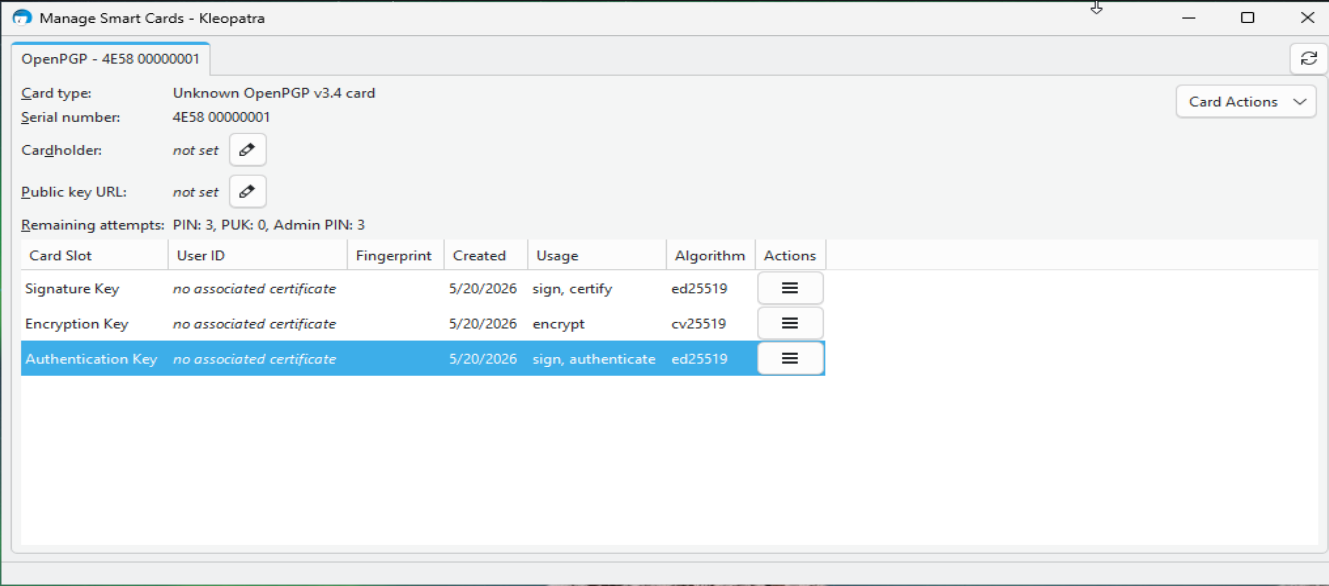
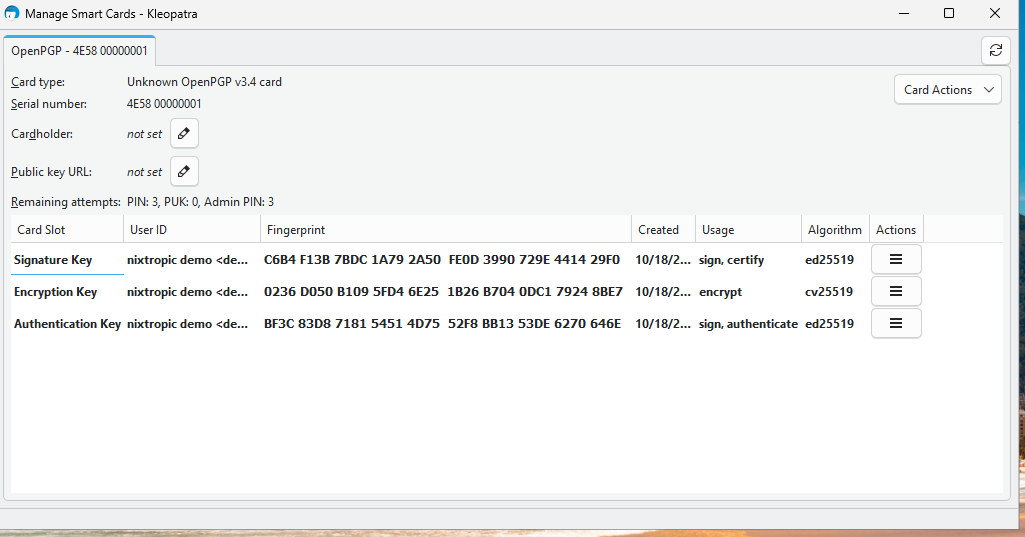
docs: dedicated Windows page
Brings back the Windows section v0.2's README had, as its own page: what
works on Windows 11 with v0.3.0 (enumeration, the OpenPGP card in
Gpg4win/Kleopatra), the FIDO2-with-PIN known issue and its cause (no
CTAPHID KEEPALIVE), flashing and SSH notes, and VirtualBox passthrough
for testing. The Kleopatra screenshot is replaced with a v0.3 one (demo
keys). Linked from the nav, home page, README, status, Linux setup and
the WebAuthn notes.

diff --git a/docs/windows.md b/docs/windows.md
@@ -1,0 +1,83 @@
+# Windows
+
+The dongle needs no driver on Windows: both interfaces bind to Windows' in-box class
+drivers (HID for FIDO2, the Microsoft USB CCID driver for the smart card). Tested on
+Windows 11 in a VirtualBox VM with USB passthrough, 18 October 2026, release build.
+
+| Feature | v0.3.0 on Windows 11 |
+|---|---|
+| USB enumeration, no driver install | works |
+| OpenPGP card with Gpg4win / Kleopatra: card view, sign, encrypt, decrypt | works |
+| FIDO2 touch (device selection) | works |
+| FIDO2 registration and login with a PIN set | **fails** — see [known issue](#known-issue-fido2-with-a-pin) |
+| FIDO2 PIN change (Windows Settings) | **reports an error**, although the change completes |
+| SSH through gpg-agent | not tested |
+| Flashing from Windows | not tested — flash from Linux |
+
+## OpenPGP card
+
+1. Install [Gpg4win](https://gpg4win.org).
+2. Create `%APPDATA%\gnupg\scdaemon.conf` (Win+R → `%APPDATA%\gnupg`) with:
+
+    ```text
+    disable-ccid
+    pcsc-shared
+    ```
+
+    The reasons are the same as on Linux: see [Linux setup](linux-setup.md#gnupg).
+
+3. In PowerShell:
+
+    ```powershell
+    gpgconf --kill scdaemon
+    gpg --card-status
+    ```
+
+    If it reports no card, reboot Windows once.
+
+4. Kleopatra → **Tools → Manage Smart Cards** shows the card and its three keys. Import
+   your public key (File → Import) and the keys appear with their user IDs:
+
+    ![Kleopatra showing the nixtropic card with its signature, encryption and authentication keys](assets/kleopatra-windows.png)
+
+5. Sign, encrypt and decrypt from Kleopatra's Notepad or the file actions. Each operation
+   asks for the user PIN and, with the default touch policy, a press of SW1.
+
+Card setup (PINs, touch policy, key generation) works with `gpg --card-edit` exactly as
+described in [card setup](card-setup.md).
+
+## Known issue: FIDO2 with a PIN
+
+In v0.3.0, FIDO2 operations that use the PIN fail on Windows: registration loops back to
+the PIN prompt, and a PIN change in *Settings → Accounts → Sign-in options → Security
+key* reports "Something went wrong".
+
+The cause is a missing CTAPHID **KEEPALIVE**. While the dongle works on a PIN operation
+it sends nothing, and Windows abandons a silent request after a few seconds. USB
+captures show it giving up on the PIN token after 2.6 s and on a PIN change after
+6.6 s; the dongle's successful answer arrived 1–2 ms later in both cases. v0.3.0's
+crash-safe PIN storage makes these operations slower than in v0.2, which worked. Linux
+clients wait for the answer and are not affected.
+
+The operations do complete on the dongle, so a PIN change made from Windows may have
+taken effect despite the error. The fix — KEEPALIVE packets while the dongle works and
+while it waits for a touch, as CTAP recommends — is planned for v0.3.1
+([backlog 6.7](backlog.md)).
+
+## Flashing from Windows
+
+Not tested. The STM32 DFU device (`0483:df11`) probably needs [Zadig](https://zadig.akeo.ie/)
+to bind WinUSB for `dfu-util.exe`, or ST's STM32CubeProgrammer with its signed driver.
+Flash from Linux for now.
+
+## SSH
+
+Not tested. Gpg4win's agent can serve SSH with `enable-win32-openssh-support` in
+`gpg-agent.conf` and the built-in `ssh-agent` service disabled.
+
+## Testing in a VirtualBox VM
+
+Pass the dongle through: VM settings → **USB** → enable the USB controller → add a filter
+for **nixtropic nixtropic** (`cafe:4001`), or attach it at run time with
+**Devices → USB**. While the VM holds the dongle, the Linux host cannot use it; stop the
+host's `pcscd` first if it holds the reader.

diff --git a/docs/linux-setup.md b/docs/linux-setup.md
@@ -157,16 +157,5 @@ More WebAuthn detail: [WebAuthn notes](webauthn.md).
 
 ## Windows and macOS
 
-Windows 11 (tested 18 October 2026 in a VirtualBox VM with USB passthrough):
-
-- **OpenPGP card: works.** Install [Gpg4win](https://gpg4win.org), put the same two lines
-  in `%APPDATA%\gnupg\scdaemon.conf`, then `gpgconf --kill scdaemon` (or reboot).
-  Kleopatra (*Tools → Manage Smart Cards*) shows the card; signing, encryption and
-  decryption work.
-- **FIDO2 with a PIN: does not work in v0.3.0.** The dongle sends no CTAPHID KEEPALIVE
-  while it works, and Windows abandons a silent request after a few seconds (about
-  2.6 s for the PIN token, 6.6 s for a PIN change); PIN operations take longer than that
-  since v0.3.0’s crash-safe PIN storage. The operations complete on the dongle, but
-  registration loops and a PIN change reports an error. The fix is planned for v0.3.1
-  ([backlog 6.7](backlog.md)). v0.2 worked.
-- Flashing from Windows and macOS are untested.
+Windows has its own page: [Windows](windows.md) (OpenPGP card works; FIDO2 with a PIN
+needs v0.3.1). macOS is untested.

diff --git a/docs/status.md b/docs/status.md
@@ -30,7 +30,7 @@
 | Host OS | NixOS (nixos-26.05) | Debian/Ubuntu steps documented, not CI-tested |
 | Host stack | GnuPG 2.4, pcsc-lite + patched libccid, OpenSSH via gpg-agent, libfido2 | `scdaemon` with `disable-ccid` + `pcsc-shared` |
 | Browsers | Firefox, Brave (Linux) | Chrome expected to work; macOS untested |
-| Windows 11 | OpenPGP card with Gpg4win/Kleopatra: sign, encrypt, decrypt | **FIDO2 with a PIN fails** (no KEEPALIVE, Windows times out); fixed in v0.3.1 ([Linux setup](linux-setup.md#windows-and-macos)) |
+| Windows 11 | OpenPGP card with Gpg4win/Kleopatra: sign, encrypt, decrypt | **FIDO2 with a PIN fails** (no KEEPALIVE, Windows times out); fixed in v0.3.1 ([Windows](windows.md)) |
 | Sites | webauthn.io, webauthn.me (v0.3); Proton account 2FA (v0.2) | attestation `none` |
 | FIDO2 | CTAP 2.0 + CTAP 2.1 credential management, authenticatorConfig, permission tokens | EdDSA and ES256; no hmac-secret, credProtect, PIN protocol 2 |
 | OpenPGP card | 3.4.1 subset: Ed25519 sign/auth, Cv25519 decrypt, PINs, UIF, forcesig | no RSA, no key import, no KDF-DO |

diff --git a/docs/webauthn.md b/docs/webauthn.md
@@ -91,7 +91,7 @@ GetInfo lists no extensions; MakeCredential still answers the `credProps` extens
 | Firefox / Linux | works |
 | Brave / Linux | works |
 | Chrome / Linux | expected to work (same engine as Brave), not verified separately |
-| Windows 11 browsers | v0.3.0: fails when a PIN is set — Windows abandons the PIN steps before the dongle answers (no KEEPALIVE yet); v0.2 worked; fix in v0.3.1 |
+| Windows 11 browsers | v0.3.0: fails when a PIN is set — Windows abandons the PIN steps before the dongle answers (no KEEPALIVE yet); v0.2 worked; fix in v0.3.1 ([Windows](windows.md)) |
 | Safari / macOS | untested |
 
 Troubleshooting steps: [Linux setup](linux-setup.md#fido2-troubleshooting).

diff --git a/README.md b/README.md
@@ -54,6 +54,7 @@ setup on other distributions:
 |---|---|
 | [Flashing](https://jjacke13.github.io/nixtropic/flashing/) | chip firmware check, DFU, Nix and non-Nix builds |
 | [Linux setup](https://jjacke13.github.io/nixtropic/linux-setup/) | pcscd, scdaemon, udev, the libccid patch |
+| [Windows](https://jjacke13.github.io/nixtropic/windows/) | Gpg4win / Kleopatra; FIDO2 known issue |
 | [Card setup](https://jjacke13.github.io/nixtropic/card-setup/) | PINs, touch policy, key generation, resets |
 | [Recovery](https://jjacke13.github.io/nixtropic/recovery/) | what each reset changes; DFU recovery |
 

diff --git a/docs/index.md b/docs/index.md
@@ -78,6 +78,10 @@ against a simulated chip, with planted bugs, and on real hardware.
 
     `pcscd`, `scdaemon`, udev rules and the libccid patch; a NixOS module does it all.
 
+-   :material-microsoft-windows: **[Windows](windows.md)**
+
+    The OpenPGP card with Gpg4win and Kleopatra; FIDO2 status.
+
 -   :material-card-account-details-outline: **[Card setup](card-setup.md)**
 
     PINs, touch policy, key generation, resets.
